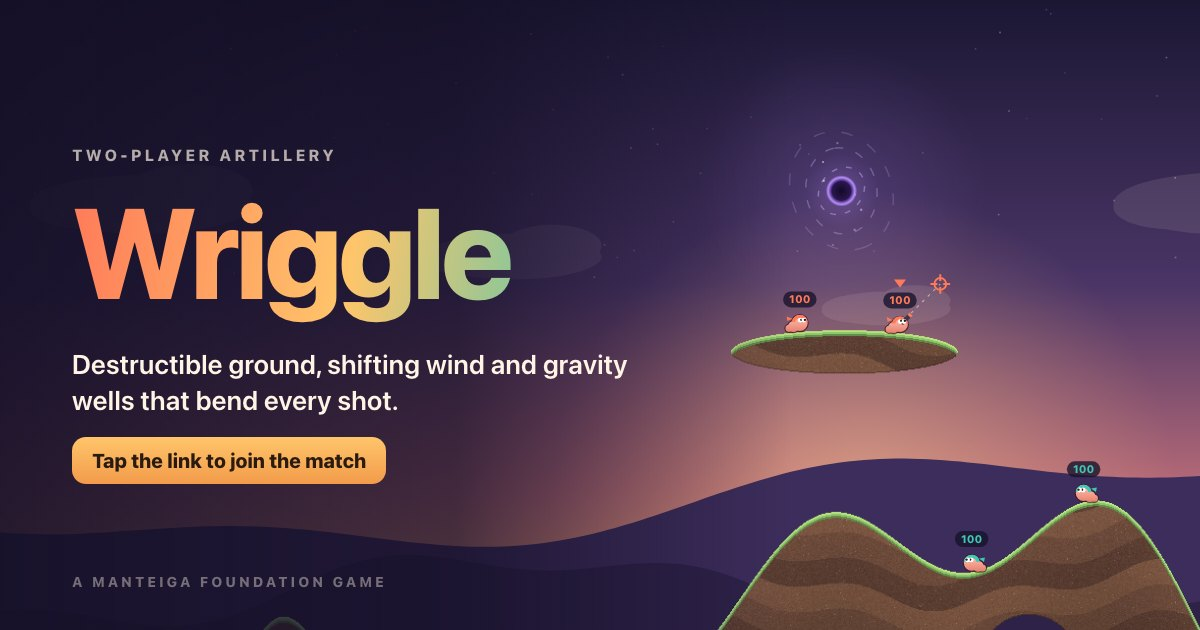
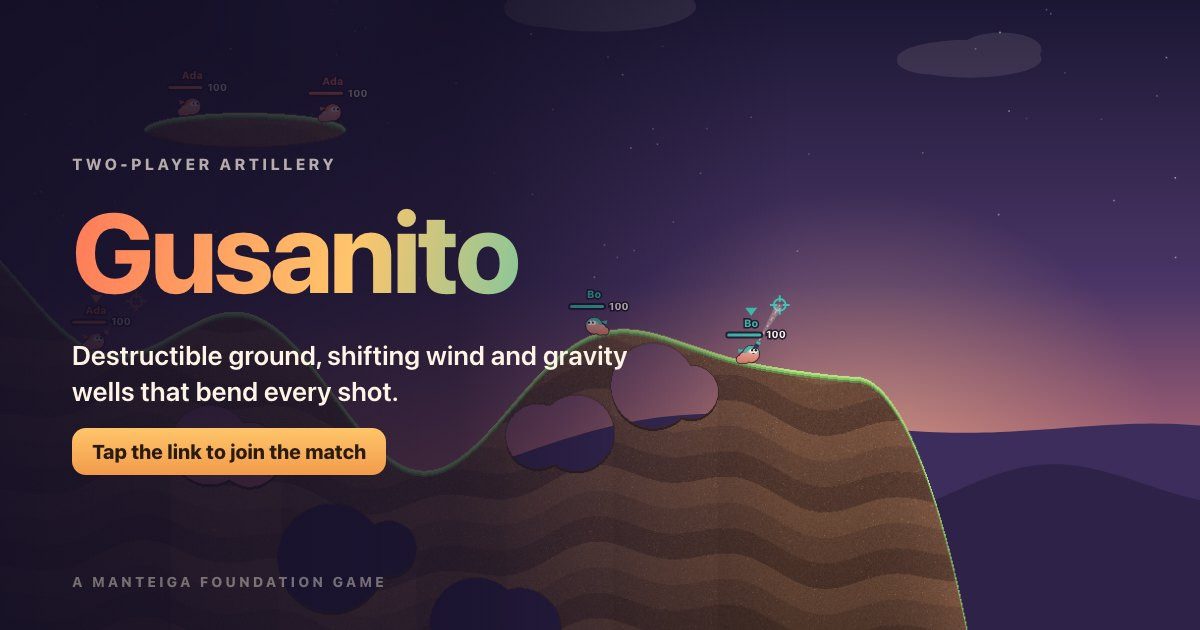
Rename to Gusanito; fire-power e2e measures the real hold time

diff --git a/test/e2e/play.test.ts b/test/e2e/play.test.ts
@@ -47,6 +47,8 @@ test("home screen offers create and join on a phone", async () => {
   await expect(p.locator("#join").isVisible()).resolves.toBe(true);
   const box = (await p.locator("#create").boundingBox())!;
   expect(box.height).toBeGreaterThanOrEqual(44);
+  expect(await p.textContent(".wordmark")).toBe("Gusanito");
+  expect(await p.title()).toContain("Gusanito");
   await p.screenshot({ path: `${SHOTS}/home-landscape.png` });
   // the death cues render, are audible, and the own-worm one is the longer, lower one
   const other = await p.evaluate(() => (window as any).__wriggle.renderCue("death"));
@@ -114,6 +116,7 @@ test("two phones meet in the Ready Player One / Two lobby and play at the same t
   const [fa, fb] = [await fireAt(a), await fireAt(b)];
   await a.mouse.move(fa.x, fa.y);
   await b.mouse.move(fb.x, fb.y);
+  const heldFrom = Date.now();
   await Promise.all([a.mouse.down(), b.mouse.down()]);
   await a.waitForTimeout(650);
   const charging = await a.locator("#fire").evaluate((e) => ({ on: e.classList.contains("charging"), c: Number(getComputedStyle(e).getPropertyValue("--charge")) }));
@@ -122,9 +125,11 @@ test("two phones meet in the Ready Player One / Two lobby and play at the same t
   expect(charging.c).toBeLessThan(0.9);
   await a.screenshot({ path: `${SHOTS}/fire-charging.png` });
   await Promise.all([a.mouse.up(), b.mouse.up()]);
+  const heldMs = Date.now() - heldFrom;
+  // power tracks how long Fire was held (the screenshot above lengthens the hold on a busy machine)
   const pa = await a.evaluate(() => (window as any).__wriggle.lastFirePower());
-  expect(pa).toBeGreaterThan(0.35);
-  expect(pa).toBeLessThan(0.85);
+  expect(pa).toBeGreaterThan(650 / 1300 - 0.05);
+  expect(pa).toBeLessThanOrEqual(Math.min(1, heldMs / 1300 + 0.05));
   await a.waitForFunction(() => {
     const s = (window as any).__wriggle.snapshot();
     return new Set(s.proj.map((p: any) => p.team)).size === 2;

diff --git a/scripts/og-card.ts b/scripts/og-card.ts
@@ -38,7 +38,7 @@ await shot.addStyleTag({ content: `
         background: linear-gradient(90deg, rgba(20,15,38,.9) 0%, rgba(20,15,38,.72) 38%, rgba(20,15,38,0) 66%); }
   .og-in { position: absolute; left: 72px; top: 0; bottom: 0; display: flex; flex-direction: column; justify-content: center; gap: 18px; width: 560px; }
   .og-eyebrow { font: 800 16px var(--font); letter-spacing: .2em; text-transform: uppercase; color: var(--ink-dim); }
-  .og-mark { font: 800 128px/1.08 var(--font); padding-bottom: 0.06em; letter-spacing: -0.03em; margin: 0;
+  .og-mark { font: 800 112px/1.08 var(--font); white-space: nowrap; padding-bottom: 0.06em; letter-spacing: -0.03em; margin: 0;
              background: linear-gradient(100deg, var(--p1), var(--gold) 50%, var(--p2)); -webkit-background-clip: text; background-clip: text; color: transparent; }
   .og-sub { font: 600 27px/1.35 var(--font); color: var(--ink); margin: 0; }
   .og-chip { align-self: flex-start; font: 800 20px var(--font); color: #2a1a10; padding: 12px 20px; border-radius: 14px;
@@ -48,7 +48,7 @@ await shot.addStyleTag({ content: `
 await shot.evaluate(() => {
   const d = document.createElement("div");
   d.className = "og";
-  d.innerHTML = `<div class="og-in"><div class="og-eyebrow">Two-player artillery</div><h1 class="og-mark">Wriggle</h1>
+  d.innerHTML = `<div class="og-in"><div class="og-eyebrow">Two-player artillery</div><h1 class="og-mark">Gusanito</h1>
     <p class="og-sub">Destructible ground, shifting wind and gravity wells that bend every shot.</p>
     <div class="og-chip">Tap the link to join the match</div></div>
     <div class="og-foot">A Manteiga Foundation game</div>`;

diff --git a/test/unit/server.test.ts b/test/unit/server.test.ts
@@ -75,7 +75,7 @@ test("two sockets create, join, ready up, and receive a live match", async () =>
 
 test("the page carries a generic link preview card", async () => {
   const html = await (await fetch(`http://${base}/`, { headers: { host: "gusanito.example" } })).text();
-  expect(html).toContain('<meta property="og:title" content="Wriggle');
+  expect(html).toContain('<meta property="og:title" content="Gusanito');
   expect(html).toContain('<meta property="og:image" content="https://gusanito.example/og-card.jpg"');
   expect(html).toContain('<meta name="twitter:card" content="summary_large_image"');
   expect(html).toContain("Manteiga Foundation");
@@ -89,7 +89,7 @@ test("an invite link previews who is inviting and the match code, safely escaped
   const { code } = await a.wait("joined");
   const html = await (await fetch(`http://${base}/?room=${code}`, { headers: { host: "gusanito.example" } })).text();
   // names lose angle brackets at the door; quotes and ampersands are escaped in the tags
-  expect(html).toContain(`<meta property="og:title" content="Ada &quot;b&amp; invites you to Wriggle">`);
+  expect(html).toContain(`<meta property="og:title" content="Ada &quot;b&amp; invites you to Gusanito">`);
   expect(html).toContain(`match ${code}`);
   expect(html).toContain(`<meta property="og:url" content="https://gusanito.example/?room=${code}">`);
   expect(html).not.toContain("<b>&");

diff --git a/public/index.html b/public/index.html
@@ -11,14 +11,14 @@
 <meta name="author" content="Manteiga Foundation">
 <title>{{title}}</title>
 <meta property="og:type" content="website">
-<meta property="og:site_name" content="Wriggle by Manteiga Foundation">
+<meta property="og:site_name" content="Gusanito by Manteiga Foundation">
 <meta property="og:title" content="{{title}}">
 <meta property="og:description" content="{{description}}">
 <meta property="og:url" content="{{url}}">
 <meta property="og:image" content="{{image}}">
 <meta property="og:image:width" content="1200">
 <meta property="og:image:height" content="630">
-<meta property="og:image:alt" content="Wriggle: worms, wind and gravity wells at dusk. A Manteiga Foundation game.">
+<meta property="og:image:alt" content="Gusanito: worms, wind and gravity wells at dusk. A Manteiga Foundation game.">
 <meta name="twitter:card" content="summary_large_image">
 <meta name="twitter:title" content="{{title}}">
 <meta name="twitter:description" content="{{description}}">
@@ -34,7 +34,7 @@
 <main id="home" class="screen">
   <div class="panel home-panel">
     <div class="eyebrow" id="home-eyebrow">Two-player artillery</div>
-    <h1 class="wordmark">Wriggle</h1>
+    <h1 class="wordmark">Gusanito</h1>
     <p class="sub">Destructible ground, shifting wind, and gravity wells that bend every shot.</p>
     <label class="field">
       <span>Your name</span>

diff --git a/src/client/main.ts b/src/client/main.ts
@@ -229,7 +229,7 @@ class App {
     $(".home-panel .join-row").hidden = this.invited;
     $("#create-instead").hidden = !this.invited;
     // the server names the host in the page's preview title
-    const host = document.querySelector('meta[property="og:title"]')?.getAttribute("content")?.match(/^(.+) invites you to Wriggle$/)?.[1];
+    const host = document.querySelector('meta[property="og:title"]')?.getAttribute("content")?.match(/^(.+) invites you to Gusanito$/)?.[1];
     $("#home-eyebrow").textContent = this.invited && host ? `${host} invites you` : this.invited ? "You are invited" : "Two-player artillery";
   }
 
@@ -244,7 +244,7 @@ class App {
       const me = this.seat !== null ? this.lobby?.players[this.seat]?.name : null;
       const code = this.session?.code ?? "";
       try {
-        await navigator.share({ title: "Wriggle", text: `${me ? `${me} invites you to` : "Join"} a Wriggle match (code ${code}).`, url: this.inviteUrl() });
+        await navigator.share({ title: "Gusanito", text: `${me ? `${me} invites you to` : "Join"} a Gusanito match (code ${code}).`, url: this.inviteUrl() });
       } catch {
         /* share sheet dismissed */
       }

diff --git a/src/server/server.ts b/src/server/server.ts
@@ -22,7 +22,7 @@ export interface ServerOptions {
 const esc = (s: string) => s.replace(/&/g, "&amp;").replace(/"/g, "&quot;").replace(/</g, "&lt;").replace(/>/g, "&gt;");
 
 const GENERIC = {
-  title: "Wriggle: two-player artillery",
+  title: "Gusanito: two-player artillery",
   description: "Destructible ground, shifting wind and gravity wells that bend every shot. Invite a friend and play in the browser. A Manteiga Foundation game.",
 };
 
@@ -30,7 +30,7 @@ const GENERIC = {
 export function renderPage(template: string, origin: string, room: string | null, host: string | null): string {
   const invite = room && host;
   const fields: Record<string, string> = {
-    title: invite ? `${host} invites you to Wriggle` : GENERIC.title,
+    title: invite ? `${host} invites you to Gusanito` : GENERIC.title,
     description: invite
       ? `Tap to join match ${room}. Two players, destructible ground, wind and gravity wells. A Manteiga Foundation game.`
       : GENERIC.description,

diff --git a/README.md b/README.md
@@ -1,4 +1,4 @@
-# Wriggle
+# Gusanito
 
 Two-player online artillery in the spirit of Worms: destructible 2D ground, wind that changes every
 turn, and gravity wells that bend every projectile. Plays in the browser on phones and desktops.
